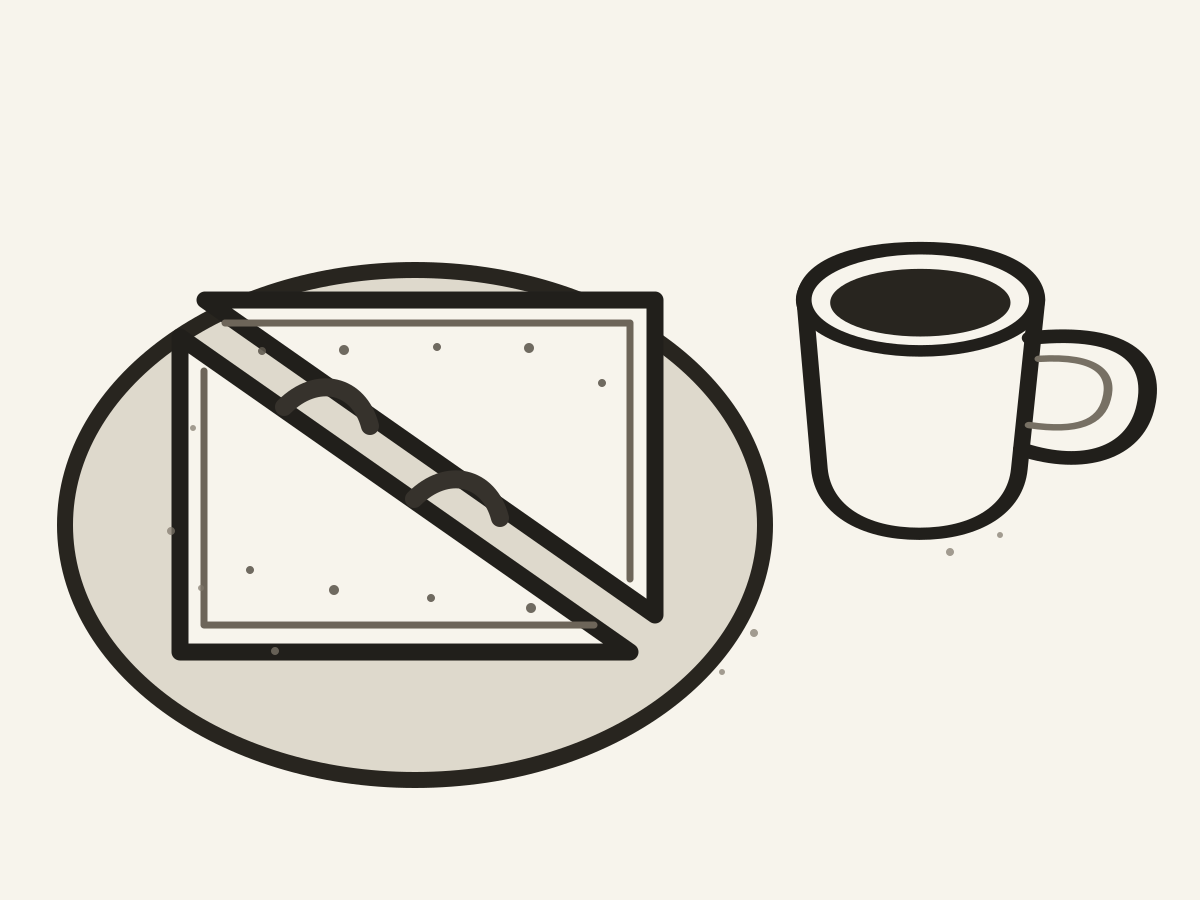
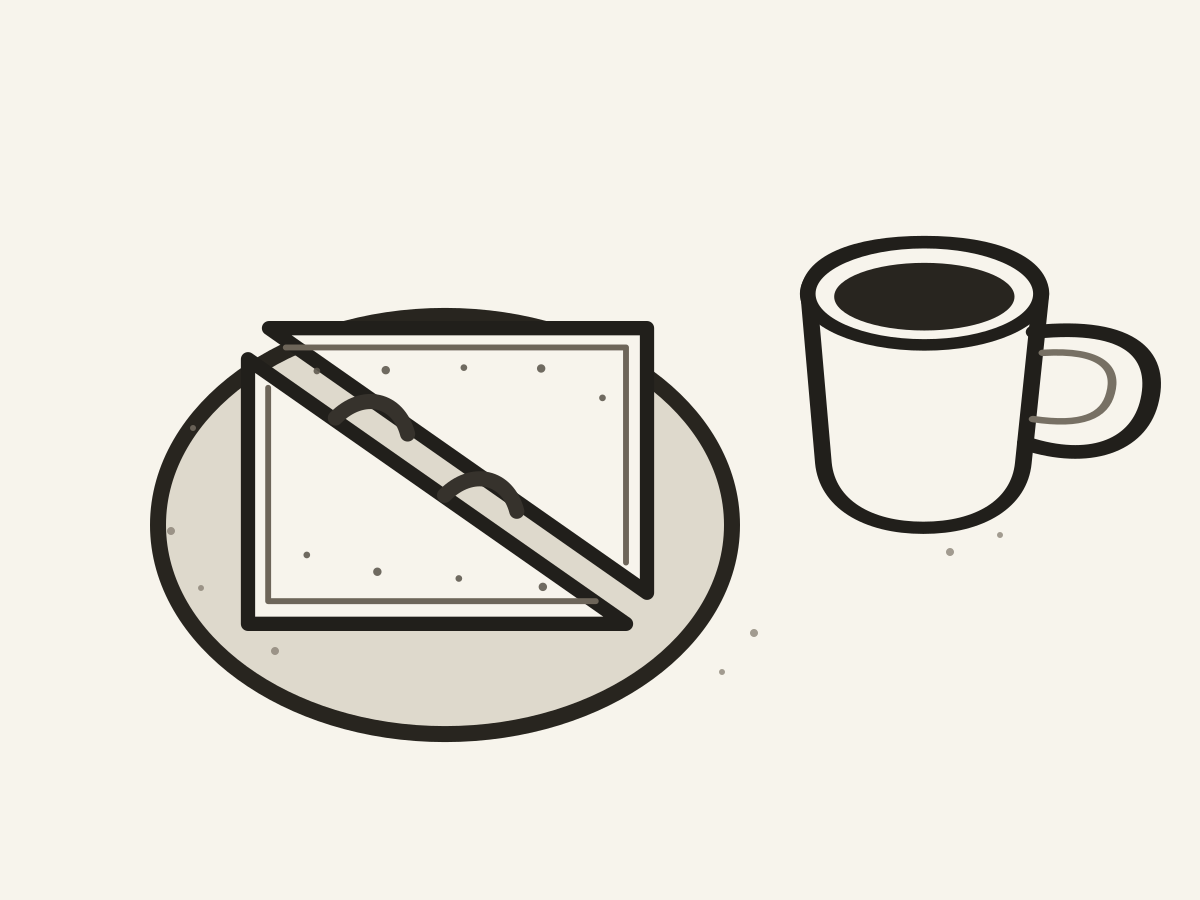
Refine Day 001 lunch composition

Changed region(s): [[0.0308, 0.2489, 0.9867, 0.9022]]

diff --git a/src/animations/text-image-morph/sampling.ts b/src/animations/text-image-morph/sampling.ts
@@ -23,6 +23,13 @@ export interface MorphTargets {
   delays: Float32Array;
 }
 
+export interface PictureContentRect {
+  x: number;
+  y: number;
+  width: number;
+  height: number;
+}
+
 interface Point {
   px: number;
   py: number;
@@ -202,14 +209,15 @@ const pruneStrays = (
   return keep;
 };
 
-// Map points into a centred box, fitting the content bbox so the subject fills
-// the frame (not the image's empty margins).
+// Map points into a centred box. A supplied content rect preserves authored
+// composition; otherwise the sampled ink bounds expand the subject to fit.
 const fitToBox = (
   raw: Point[],
   canvasWidth: number,
   canvasHeight: number,
   count: number,
   random: Random,
+  contentRect?: PictureContentRect,
 ): ScreenPoint[] => {
   let minPX = Infinity;
   let minPY = Infinity;
@@ -226,6 +234,12 @@ const fitToBox = (
     minPY = 0;
     maxPX = 1;
     maxPY = 1;
+  }
+  if (contentRect && contentRect.width > 0 && contentRect.height > 0) {
+    minPX = contentRect.x;
+    minPY = contentRect.y;
+    maxPX = contentRect.x + contentRect.width;
+    maxPY = contentRect.y + contentRect.height;
   }
   const contentW = Math.max(1, maxPX - minPX);
   const contentH = Math.max(1, maxPY - minPY);
@@ -322,6 +336,7 @@ export const computeTargets = (
   pictureImage: SkImage,
   canvasWidth: number,
   canvasHeight: number,
+  contentRect?: PictureContentRect,
 ): MorphTargets => {
   const N = pageXY.length / 2;
   const imgW = pictureImage.width();
@@ -343,6 +358,13 @@ export const computeTargets = (
     raw = pruneStrays(raw, minDist, imgH, random);
   }
 
-  const samples = fitToBox(raw, canvasWidth, canvasHeight, N, random);
+  const samples = fitToBox(
+    raw,
+    canvasWidth,
+    canvasHeight,
+    N,
+    random,
+    contentRect,
+  );
   return assignTargets(pageXY, samples, random);
 };

diff --git a/src/animations/text-image-morph/use-text-image-morph.ts b/src/animations/text-image-morph/use-text-image-morph.ts
@@ -9,7 +9,7 @@ import { computeTargets } from './sampling';
 
 import type { Atlas } from './atlas';
 import type { PageVerticalAlignment } from './layout';
-import type { MorphTargets } from './sampling';
+import type { MorphTargets, PictureContentRect } from './sampling';
 import type {
   DataSourceParam,
   SkFont,
@@ -34,6 +34,7 @@ interface Params {
   height: number;
   pageMarginYFraction?: number;
   pageVerticalAlignment?: PageVerticalAlignment;
+  pictureContentRect?: PictureContentRect;
 }
 
 const EMPTY_F32 = new Float32Array(0);
@@ -46,6 +47,7 @@ export const useTextImageMorph = ({
   height,
   pageMarginYFraction,
   pageVerticalAlignment,
+  pictureContentRect,
 }: Params): TextImageMorphData => {
   const pictureImage = useImage(image);
   const font = useFont(PAGE_FONT, GLYPH_FONT_SIZE);
@@ -87,7 +89,13 @@ export const useTextImageMorph = ({
       if (cancelled) {
         return;
       }
-      const t = computeTargets(layout.pageXY, pictureImage, width, height);
+      const t = computeTargets(
+        layout.pageXY,
+        pictureImage,
+        width,
+        height,
+        pictureContentRect,
+      );
       if (!cancelled) {
         setTargets(t);
       }
@@ -96,7 +104,7 @@ export const useTextImageMorph = ({
       cancelled = true;
       clearTimeout(id);
     };
-  }, [layout, pictureImage, width, height]);
+  }, [layout, pictureImage, width, height, pictureContentRect]);
 
   return {
     ready: !!layout && !!font,

diff --git a/src/animations/text-image-morph/text-image-morph.tsx b/src/animations/text-image-morph/text-image-morph.tsx
@@ -21,6 +21,7 @@ import { Reveal } from './reveal';
 import { useTextImageMorph } from './use-text-image-morph';
 
 import type { PageVerticalAlignment } from './layout';
+import type { PictureContentRect } from './sampling';
 import type { DataSourceParam } from '@shopify/react-native-skia';
 
 interface Props {
@@ -34,6 +35,7 @@ interface Props {
   scrubTravelFraction?: number;
   scrubTapDurationMs?: number;
   scrubSettleDurationMs?: number;
+  pictureContentRect?: PictureContentRect;
 }
 
 const clamp01 = (value: number) => {
@@ -52,6 +54,7 @@ export const TextImageMorph = ({
   scrubTravelFraction = 0.56,
   scrubTapDurationMs = 720,
   scrubSettleDurationMs = 720,
+  pictureContentRect,
 }: Props) => {
   const data = useTextImageMorph({
     image,
@@ -60,6 +63,7 @@ export const TextImageMorph = ({
     height,
     pageMarginYFraction,
     pageVerticalAlignment,
+    pictureContentRect,
   });
   const progress = useSharedValue(0); // 0 = page, 1 = picture
   const gestureStart = useSharedValue(0);

diff --git a/src/animations/day-001-lunch/index.tsx b/src/animations/day-001-lunch/index.tsx
@@ -5,6 +5,8 @@ import { LUNCH_TEXT } from './text';
 
 const LUNCH_IMAGE = require('./assets/lunch-target.png');
 
+const LUNCH_CONTENT_RECT = { x: 120, y: 220, width: 1060, height: 540 };
+
 /*
 THESIS: A novel page physically becomes the lunch it describes; no image layer replaces the type.
 OWN-WORLD: Warm paper, charcoal Newsreader glyphs, stippled food contours, and no visible chrome.
@@ -25,6 +27,7 @@ export const Day001LunchScreen = () => {
       pageMarginYFraction={0.085}
       pageVerticalAlignment="center"
       paragraph={LUNCH_TEXT}
+      pictureContentRect={LUNCH_CONTENT_RECT}
       scrubSettleDurationMs={1900}
       scrubTapDurationMs={4200}
       scrubTravelFraction={1.08}

diff --git a/src/animations/text-image-morph/index.ts b/src/animations/text-image-morph/index.ts
@@ -2,4 +2,4 @@ export { TextImageMorph } from './text-image-morph';
 export { useTextImageMorph } from './use-text-image-morph';
 export type { TextImageMorphData } from './use-text-image-morph';
 export type { Atlas } from './atlas';
-export type { MorphTargets } from './sampling';
+export type { MorphTargets, PictureContentRect } from './sampling';
